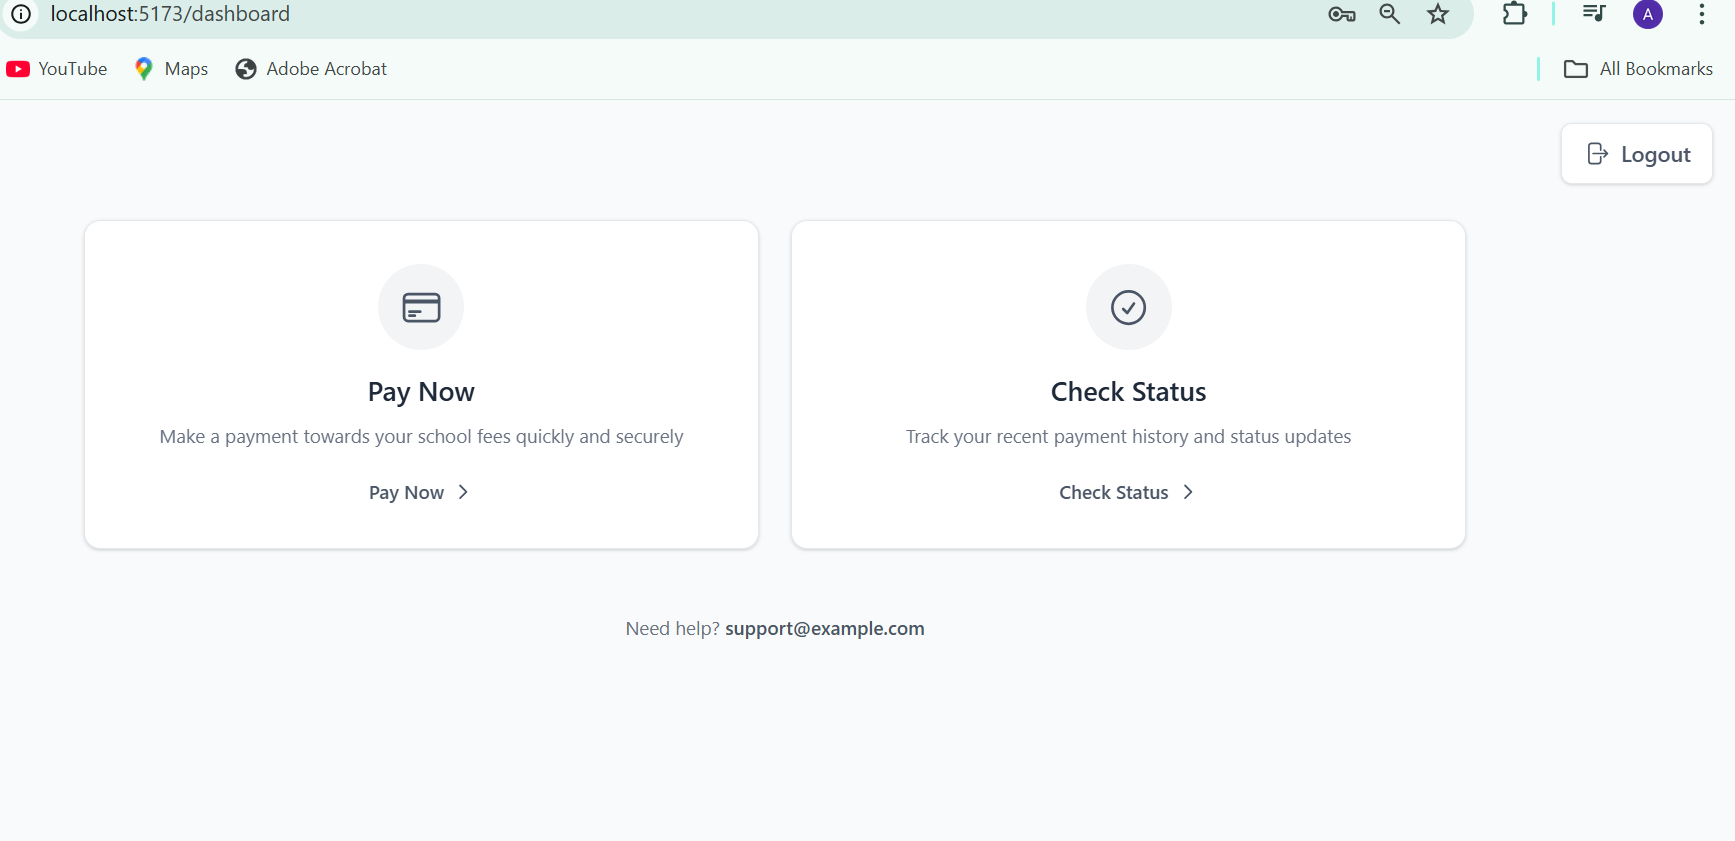
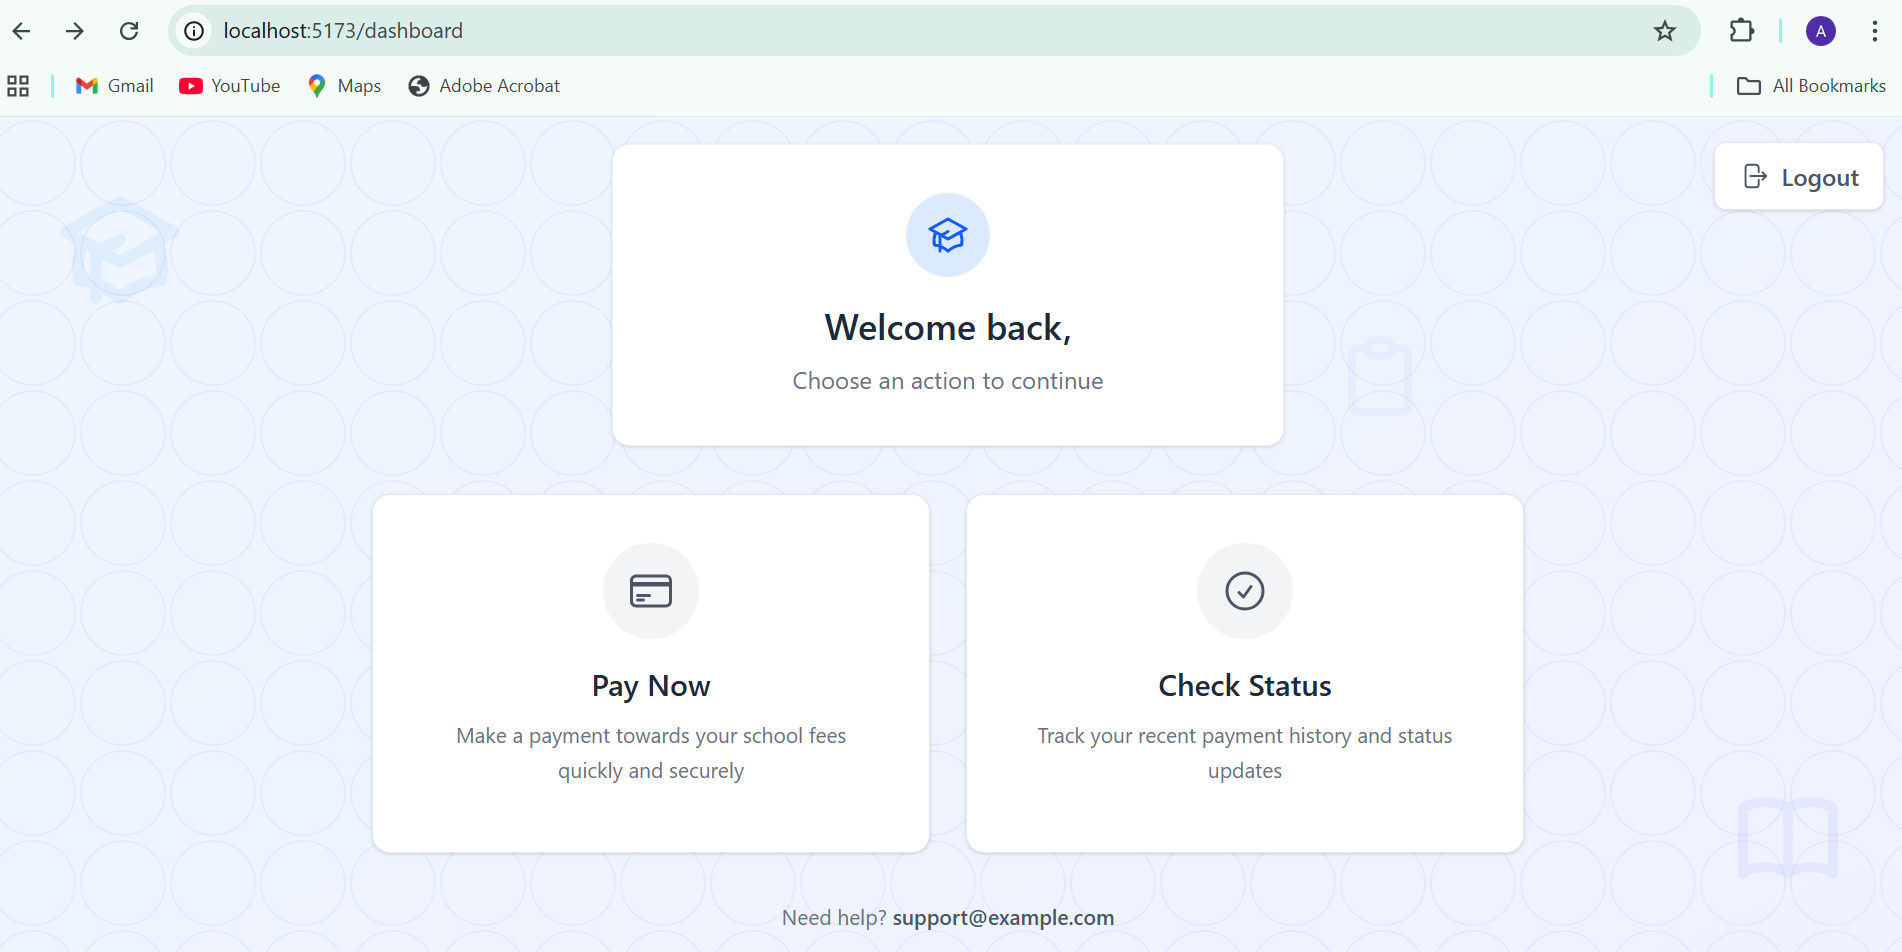
Completed

diff --git a/frontend/src/Pages/StudentDashboard.jsx b/frontend/src/Pages/StudentDashboard.jsx
@@ -56,7 +56,37 @@ const Dashboard = () => {
   }, [navigate]);
 
   return (
-    <div className="h-screen w-screen flex flex-col bg-gray-50 overflow-hidden">
+    <div className="h-screen w-screen flex flex-col bg-gradient-to-br from-blue-50 to-indigo-50 overflow-hidden relative">
+      {/* Background Elements */}
[1 lines of base64/hex data omitted]
+      
+      {/* Subtle school icons in background */}
+      <div className="absolute top-10 left-10 opacity-10">
+        <svg xmlns="http://www.w3.org/2000/svg" className="h-24 w-24 text-blue-400" fill="none" viewBox="0 0 24 24" stroke="currentColor">
+          <path d="M12 14l9-5-9-5-9 5 9 5z" />
+          <path d="M12 14l6.16-3.422a12.083 12.083 0 01.665 6.479A11.952 11.952 0 0012 20.055a11.952 11.952 0 00-6.824-2.998 12.078 12.078 0 01.665-6.479L12 14z" />
+          <path strokeLinecap="round" strokeLinejoin="round" strokeWidth={2} d="M12 14l9-5-9-5-9 5 9 5zm0 0l6.16-3.422a12.083 12.083 0 01.665 6.479A11.952 11.952 0 0012 20.055a11.952 11.952 0 00-6.824-2.998 12.078 12.078 0 01.665-6.479L12 14zm-4 6v-7.5l4-2.222" />
+        </svg>
+      </div>
+      
+      <div className="absolute bottom-10 right-10 opacity-10">
+        <svg xmlns="http://www.w3.org/2000/svg" className="h-20 w-20 text-indigo-400" fill="none" viewBox="0 0 24 24" stroke="currentColor">
+          <path strokeLinecap="round" strokeLinejoin="round" strokeWidth={2} d="M12 6.253v13m0-13C10.832 5.477 9.246 5 7.5 5S4.168 5.477 3 6.253v13C4.168 18.477 5.754 18 7.5 18s3.332.477 4.5 1.253m0-13C13.168 5.477 14.754 5 16.5 5c1.747 0 3.332.477 4.5 1.253v13C19.832 18.477 18.247 18 16.5 18c-1.746 0-3.332.477-4.5 1.253" />
+        </svg>
+      </div>
+      
+      <div className="absolute top-1/4 right-1/4 opacity-5">
+        <svg xmlns="http://www.w3.org/2000/svg" className="h-16 w-16 text-blue-500" fill="none" viewBox="0 0 24 24" stroke="currentColor">
+          <path strokeLinecap="round" strokeLinejoin="round" strokeWidth={2} d="M9 5H7a2 2 0 00-2 2v12a2 2 0 002 2h10a2 2 0 002-2V7a2 2 0 00-2-2h-2M9 5a2 2 0 002 2h2a2 2 0 002-2M9 5a2 2 0 012-2h2a2 2 0 012 2" />
+        </svg>
+      </div>
+      
+      <div className="absolute bottom-1/3 left-1/4 opacity-5">
+        <svg xmlns="http://www.w3.org/2000/svg" className="h-14 w-14 text-indigo-500" fill="none" viewBox="0 0 24 24" stroke="currentColor">
+          <path strokeLinecap="round" strokeLinejoin="round" strokeWidth={2} d="M12 8v13m0-13V6a2 2 0 112 2h-2zm0 0V5.5A2.5 2.5 0 109.5 8H12zm-7 4h14M5 12a2 2 0 110-4h14a2 2 0 110 4M5 12v7a2 2 0 002 2h10a2 2 0 002-2v-7" />
+        </svg>
+      </div>
+
       {/* Fixed Logout Button */}
       <div className="absolute top-4 right-4 z-50">
         <button
@@ -64,7 +94,7 @@ const Dashboard = () => {
           onClick={() => navigate("/logout")}
           className="flex items-center gap-2 bg-white text-gray-600 px-4 py-2.5 rounded-lg shadow-sm border border-gray-200 
           hover:shadow-md hover:border-gray-300 hover:bg-gray-100 font-medium transition-all duration-200 
-          focus:outline-none focus:ring-2 focus:ring-gray-400 focus:ring-offset-1"
+          focus:outline-none focus:ring-2 focus:ring-gray-400 focus:ring-offset-1 z-50"
           aria-label="Logout"
         >
           <ArrowRightOnRectangleIcon className="h-5 w-5" />
@@ -73,7 +103,7 @@ const Dashboard = () => {
       </div>
 
       {/* Center Content */}
-      <div className="flex-1 flex flex-col items-center justify-center px-4 md:px-6">
+      <div className="flex-1 flex flex-col items-center justify-center px-4 md:px-6 z-10">
         {loading ? (
           <div className="flex flex-col items-center justify-center bg-white rounded-xl shadow p-8 border border-gray-100 w-full max-w-md">
             <Spinner />
@@ -107,6 +137,15 @@ const Dashboard = () => {
         ) : (
           user && (
             <div className="bg-white rounded-xl shadow p-6 md:p-8 border border-gray-100 text-center w-full max-w-md mb-8">
+              <div className="flex justify-center mb-4">
+                <div className="bg-blue-100 p-3 rounded-full">
+                  <svg xmlns="http://www.w3.org/2000/svg" className="h-8 w-8 text-blue-600" fill="none" viewBox="0 0 24 24" stroke="currentColor">
+                    <path d="M12 14l9-5-9-5-9 5 9 5z" />
+                    <path d="M12 14l6.16-3.422a12.083 12.083 0 01.665 6.479A11.952 11.952 0 0012 20.055a11.952 11.952 0 00-6.824-2.998 12.078 12.078 0 01.665-6.479L12 14z" />
+                    <path strokeLinecap="round" strokeLinejoin="round" strokeWidth={1.5} d="M12 14l9-5-9-5-9 5 9 5zm0 0l6.16-3.422a12.083 12.083 0 01.665 6.479A11.952 11.952 0 0012 20.055a11.952 11.952 0 00-6.824-2.998 12.078 12.078 0 01.665-6.479L12 14zm-4 6v-7.5l4-2.222" />
+                  </svg>
+                </div>
+              </div>
               <h2 className="text-xl md:text-2xl font-semibold text-gray-800 mb-2">
                 Welcome back,{" "}
                 <span className="text-gray-700">{user.fullname}</span>

diff --git a/frontend/src/Pages/CheckPaymentStatus.jsx.jsx b/frontend/src/Pages/CheckPaymentStatus.jsx.jsx
@@ -63,13 +63,45 @@ const CheckPaymentStatus = () => {
   };
 
   return (
-    <div className="min-h-screen w-full flex items-center justify-center bg-gray-50 py-10 px-4">
-      <div className="w-full max-w-md bg-white rounded-2xl shadow-lg p-10 border border-gray-100">
+    <div className="min-h-screen w-full flex items-center justify-center bg-gradient-to-br from-blue-50 to-indigo-50 py-10 px-4 relative overflow-hidden">
+      {/* Background Elements */}
[1 lines of base64/hex data omitted]
+      
+      {/* Subtle school icons in background */}
+      <div className="absolute top-10 left-10 opacity-10">
+        <svg xmlns="http://www.w3.org/2000/svg" className="h-24 w-24 text-blue-400" fill="none" viewBox="0 0 24 24" stroke="currentColor">
+          <path d="M12 14l9-5-9-5-9 5 9 5z" />
+          <path d="M12 14l6.16-3.422a12.083 12.083 0 01.665 6.479A11.952 11.952 0 0012 20.055a11.952 11.952 0 00-6.824-2.998 12.078 12.078 0 01.665-6.479L12 14z" />
+          <path strokeLinecap="round" strokeLinejoin="round" strokeWidth={2} d="M12 14l9-5-9-5-9 5 9 5zm0 0l6.16-3.422a12.083 12.083 0 01.665 6.479A11.952 11.952 0 0012 20.055a11.952 11.952 0 00-6.824-2.998 12.078 12.078 0 01.665-6.479L12 14zm-4 6v-7.5l4-2.222" />
+        </svg>
+      </div>
+      
+      <div className="absolute bottom-10 right-10 opacity-10">
+        <svg xmlns="http://www.w3.org/2000/svg" className="h-20 w-20 text-indigo-400" fill="none" viewBox="0 0 24 24" stroke="currentColor">
+          <path strokeLinecap="round" strokeLinejoin="round" strokeWidth={2} d="M12 6.253v13m0-13C10.832 5.477 9.246 5 7.5 5S4.168 5.477 3 6.253v13C4.168 18.477 5.754 18 7.5 18s3.332.477 4.5 1.253m0-13C13.168 5.477 14.754 5 16.5 5c1.747 0 3.332.477 4.5 1.253v13C19.832 18.477 18.247 18 16.5 18c-1.746 0-3.332.477-4.5 1.253" />
+        </svg>
+      </div>
+      
+      <div className="absolute top-1/4 right-1/4 opacity-5">
+        <svg xmlns="http://www.w3.org/2000/svg" className="h-16 w-16 text-blue-500" fill="none" viewBox="0 0 24 24" stroke="currentColor">
+          <path strokeLinecap="round" strokeLinejoin="round" strokeWidth={2} d="M9 5H7a2 2 0 00-2 2v12a2 2 0 002 2h10a2 2 0 002-2V7a2 2 0 00-2-2h-2M9 5a2 2 0 002 2h2a2 2 0 002-2M9 5a2 2 0 012-2h2a2 2 0 012 2" />
+        </svg>
+      </div>
+      
+      <div className="absolute bottom-1/3 left-1/4 opacity-5">
+        <svg xmlns="http://www.w3.org/2000/svg" className="h-14 w-14 text-indigo-500" fill="none" viewBox="0 0 24 24" stroke="currentColor">
+          <path strokeLinecap="round" strokeLinejoin="round" strokeWidth={2} d="M12 8v13m0-13V6a2 2 0 112 2h-2zm0 0V5.5A2.5 2.5 0 109.5 8H12zm-7 4h14M5 12a2 2 0 110-4h14a2 2 0 110 4M5 12v7a2 2 0 002 2h10a2 2 0 002-2v-7" />
+        </svg>
+      </div>
+
+      <div className="w-full max-w-md bg-white rounded-2xl shadow-lg p-10 border border-gray-100 z-10">
         <div className="text-center mb-8">
-          <div className="inline-flex items-center justify-center w-16 h-16 bg-gray-100 rounded-full mb-4">
-            <svg xmlns="http://www.w3.org/2000/svg" className="h-8 w-8 text-gray-600" fill="none" viewBox="0 0 24 24" stroke="currentColor">
-              <path strokeLinecap="round" strokeLinejoin="round" strokeWidth={2} d="M9 12l2 2 4-4m5.618-4.016A11.955 11.955 0 0112 2.944a11.955 11.955 0 01-8.618 3.04A12.02 12.02 0 003 9c0 5.591 3.824 10.29 9 11.622 5.176-1.332 9-6.03 9-11.622 0-1.042-.133-2.052-.382-3.016z" />
-            </svg>
+          <div className="flex justify-center mb-4">
+            <div className="bg-blue-100 p-3 rounded-full">
+              <svg xmlns="http://www.w3.org/2000/svg" className="h-8 w-8 text-blue-600" fill="none" viewBox="0 0 24 24" stroke="currentColor">
+                <path strokeLinecap="round" strokeLinejoin="round" strokeWidth={2} d="M9 12l2 2 4-4m5.618-4.016A11.955 11.955 0 0112 2.944a11.955 11.955 0 01-8.618 3.04A12.02 12.02 0 003 9c0 5.591 3.824 10.29 9 11.622 5.176-1.332 9-6.03 9-11.622 0-1.042-.133-2.052-.382-3.016z" />
+              </svg>
+            </div>
           </div>
           <h2 className="text-2xl font-bold text-gray-800">Check Payment Status</h2>
           <p className="text-gray-500 mt-2">Enter your collect request ID to view payment details</p>

diff --git a/frontend/src/Pages/Login.jsx b/frontend/src/Pages/Login.jsx
@@ -28,7 +28,6 @@ const InputField = ({
         onChange={onChange}
         placeholder={placeholder}
         required
-        disabled={false} // can later be controlled during loading
         className="w-full border border-gray-200 px-4 py-3 rounded-lg focus:ring-2 focus:ring-gray-200 focus:border-gray-200 outline-none transition pr-12 disabled:bg-gray-100 disabled:text-gray-400"
       />
       {showToggle && (
@@ -61,20 +60,16 @@ const Login = () => {
   const [showPassword, setShowPassword] = useState(false);
   const [error, setError] = useState("");
 
-  const handleChange = (e) => setFormData({ ...formData, [e.target.name]: e.target.value });
+  const handleChange = (e) =>
+    setFormData({ ...formData, [e.target.name]: e.target.value });
 
   const loginUser = async () => {
     try {
       setLoading(true);
       setError("");
 
-      // 1⃣ Login request (cookie auth)
       await api.post("/users/login", formData);
-
-      // 2⃣ Fetch current user
       await api.get("/users/me");
-
-      // 3⃣ Navigate to dashboard
       navigate("/dashboard", { replace: true });
     } catch (err) {
       console.error(err);
@@ -94,9 +89,34 @@ const Login = () => {
   };
 
   return (
-    <div className="min-h-screen flex items-center justify-center bg-gray-50">
-      <div className="w-full max-w-md bg-white rounded-2xl shadow-lg p-10 border border-gray-100">
-        <h2 className="text-2xl font-bold mb-8 text-center text-gray-800">Student Login</h2>
+    <div className="h-screen flex items-center justify-center bg-gradient-to-br from-blue-50 to-indigo-50 relative overflow-hidden">
+      {/* Background Elements */}
[1 lines of base64/hex data omitted]
+
+      {/* Background Icons (unchanged) */}
+      <div className="absolute top-10 left-10 opacity-10">
+        <svg xmlns="http://www.w3.org/2000/svg" className="h-24 w-24 text-blue-400" fill="none" viewBox="0 0 24 24" stroke="currentColor">
+          <path d="M12 14l9-5-9-5-9 5 9 5z" />
+          <path d="M12 14l6.16-3.422a12.083 12.083 0 01.665 6.479A11.952 11.952 0 0012 20.055a11.952 11.952 0 00-6.824-2.998 12.078 12.078 0 01.665-6.479L12 14z" />
+          <path strokeLinecap="round" strokeLinejoin="round" strokeWidth={2} d="M12 14l9-5-9-5-9 5 9 5zm0 0l6.16-3.422a12.083 12.083 0 01.665 6.479A11.952 11.952 0 0012 20.055a11.952 11.952 0 00-6.824-2.998 12.078 12.078 0 01.665-6.479L12 14zm-4 6v-7.5l4-2.222" />
+        </svg>
+      </div>
+
+      {/* Login Box */}
+      <div className="w-full max-w-md bg-white rounded-2xl shadow-lg p-10 border border-gray-100 z-10">
+        <div className="flex justify-center mb-6">
+          <div className="bg-blue-100 p-3 rounded-full">
+            <svg xmlns="http://www.w3.org/2000/svg" className="h-10 w-10 text-blue-600" fill="none" viewBox="0 0 24 24" stroke="currentColor">
+              <path d="M12 14l9-5-9-5-9 5 9 5z" />
+              <path d="M12 14l6.16-3.422a12.083 12.083 0 01.665 6.479A11.952 11.952 0 0012 20.055a11.952 11.952 0 00-6.824-2.998 12.078 12.078 0 01.665-6.479L12 14z" />
+              <path strokeLinecap="round" strokeLinejoin="round" strokeWidth={1.5} d="M12 14l9-5-9-5-9 5 9 5zm0 0l6.16-3.422a12.083 12.083 0 01.665 6.479A11.952 11.952 0 0012 20.055a11.952 11.952 0 00-6.824-2.998 12.078 12.078 0 01.665-6.479L12 14zm-4 6v-7.5l4-2.222" />
+            </svg>
+          </div>
+        </div>
+
+        <h2 className="text-2xl font-bold mb-8 text-center text-gray-800">
+          Student Login
+        </h2>
 
         <form onSubmit={handleSubmit} className="space-y-6">
           <InputField

diff --git a/frontend/src/Pages/LoginAdmin.jsx b/frontend/src/Pages/LoginAdmin.jsx
@@ -147,8 +147,46 @@ const AdminLogin = () => {
   };
 
   return (
-    <div className="min-h-screen w-full flex items-center justify-center bg-gray-50">
-      <div className="w-full max-w-md bg-white rounded-2xl shadow-lg p-10 border border-gray-100">
+    <div className="min-h-screen w-full flex items-center justify-center bg-gradient-to-br from-blue-50 to-indigo-50 relative overflow-hidden">
+      {/* Background Elements */}
[1 lines of base64/hex data omitted]
+      
+      {/* Subtle school icons in background */}
+      <div className="absolute top-10 left-10 opacity-10">
+        <svg xmlns="http://www.w3.org/2000/svg" className="h-24 w-24 text-blue-400" fill="none" viewBox="0 0 24 24" stroke="currentColor">
+          <path d="M12 14l9-5-9-5-9 5 9 5z" />
+          <path d="M12 14l6.16-3.422a12.083 12.083 0 01.665 6.479A11.952 11.952 0 0012 20.055a11.952 11.952 0 00-6.824-2.998 12.078 12.078 0 01.665-6.479L12 14z" />
+          <path strokeLinecap="round" strokeLinejoin="round" strokeWidth={2} d="M12 14l9-5-9-5-9 5 9 5zm0 0l6.16-3.422a12.083 12.083 0 01.665 6.479A11.952 11.952 0 0012 20.055a11.952 11.952 0 00-6.824-2.998 12.078 12.078 0 01.665-6.479L12 14zm-4 6v-7.5l4-2.222" />
+        </svg>
+      </div>
+      
+      <div className="absolute bottom-10 right-10 opacity-10">
+        <svg xmlns="http://www.w3.org/2000/svg" className="h-20 w-20 text-indigo-400" fill="none" viewBox="0 0 24 24" stroke="currentColor">
+          <path strokeLinecap="round" strokeLinejoin="round" strokeWidth={2} d="M12 6.253v13m0-13C10.832 5.477 9.246 5 7.5 5S4.168 5.477 3 6.253v13C4.168 18.477 5.754 18 7.5 18s3.332.477 4.5 1.253m0-13C13.168 5.477 14.754 5 16.5 5c1.747 0 3.332.477 4.5 1.253v13C19.832 18.477 18.247 18 16.5 18c-1.746 0-3.332.477-4.5 1.253" />
+        </svg>
+      </div>
+      
+      <div className="absolute top-1/4 right-1/4 opacity-5">
+        <svg xmlns="http://www.w3.org/2000/svg" className="h-16 w-16 text-blue-500" fill="none" viewBox="0 0 24 24" stroke="currentColor">
+          <path strokeLinecap="round" strokeLinejoin="round" strokeWidth={2} d="M9 5H7a2 2 0 00-2 2v12a2 2 0 002 2h10a2 2 0 002-2V7a2 2 0 00-2-2h-2M9 5a2 2 0 002 2h2a2 2 0 002-2M9 5a2 2 0 012-2h2a2 2 0 012 2" />
+        </svg>
+      </div>
+      
+      <div className="absolute bottom-1/3 left-1/4 opacity-5">
+        <svg xmlns="http://www.w3.org/2000/svg" className="h-14 w-14 text-indigo-500" fill="none" viewBox="0 0 24 24" stroke="currentColor">
+          <path strokeLinecap="round" strokeLinejoin="round" strokeWidth={2} d="M12 8v13m0-13V6a2 2 0 112 2h-2zm0 0V5.5A2.5 2.5 0 109.5 8H12zm-7 4h14M5 12a2 2 0 110-4h14a2 2 0 110 4M5 12v7a2 2 0 002 2h10a2 2 0 002-2v-7" />
+        </svg>
+      </div>
+
+      <div className="w-full max-w-md bg-white rounded-2xl shadow-lg p-10 border border-gray-100 z-10">
+        <div className="flex justify-center mb-6">
+          <div className="bg-blue-100 p-3 rounded-full">
+            <svg xmlns="http://www.w3.org/2000/svg" className="h-10 w-10 text-blue-600" fill="none" viewBox="0 0 24 24" stroke="currentColor">
+              <path strokeLinecap="round" strokeLinejoin="round" strokeWidth={2} d="M9 5H7a2 2 0 00-2 2v12a2 2 0 002 2h10a2 2 0 002-2V7a2 2 0 00-2-2h-2M9 5a2 2 0 002 2h2a2 2 0 002-2M9 5a2 2 0 012-2h2a2 2 0 012 2m-3 7h3m-3 4h3m-6-4h.01M9 16h.01" />
+            </svg>
+          </div>
+        </div>
+        
         <h2 className="text-2xl font-bold mb-2 text-center text-gray-800">
           Admin Login
         </h2>

diff --git a/frontend/src/Pages/CreateAmount.jsx b/frontend/src/Pages/CreateAmount.jsx
@@ -94,8 +94,19 @@ const PaymentForm = () => {
   };
 
   return (
-    <div className="w-screen h-screen bg-gray-50 flex items-center justify-center overflow-hidden">
-      <div className="relative w-full max-w-md bg-white rounded-2xl shadow-lg p-10 border border-gray-100">
+    <div className="h-screen flex items-center justify-center bg-gradient-to-br from-blue-50 to-indigo-50 relative overflow-hidden">
+      {/* Background SVG */}
[1 lines of base64/hex data omitted]
+
+      <div className="absolute top-10 left-10 opacity-10">
+        <svg xmlns="http://www.w3.org/2000/svg" className="h-24 w-24 text-blue-400" fill="none" viewBox="0 0 24 24" stroke="currentColor">
+          <path d="M12 14l9-5-9-5-9 5 9 5z" />
+          <path d="M12 14l6.16-3.422a12.083 12.083 0 01.665 6.479A11.952 11.952 0 0012 20.055a11.952 11.952 0 00-6.824-2.998 12.078 12.078 0 01.665-6.479L12 14z" />
+          <path strokeLinecap="round" strokeLinejoin="round" strokeWidth={2} d="M12 14l9-5-9-5-9 5 9 5zm0 0l6.16-3.422a12.083 12.083 0 01.665 6.479A11.952 11.952 0 0012 20.055a11.952 11.952 0 00-6.824-2.998 12.078 12.078 0 01.665-6.479L12 14zm-4 6v-7.5l4-2.222" />
+        </svg>
+      </div>
+
+      <div className="relative w-full max-w-md bg-white rounded-2xl shadow-lg p-10 border border-gray-100 z-10">
         <h2 className="text-2xl font-bold mb-8 text-center text-gray-800">Create Payment</h2>
 
         <form onSubmit={handleSubmit} className="space-y-5">
@@ -133,6 +144,7 @@ const PaymentForm = () => {
           </div>
         )}
 
+        {/* Payment Modal */}
         {showModal && paymentData && (
           <div className="fixed inset-0 flex items-center justify-center z-50">
             <div className="absolute inset-0 bg-black bg-opacity-50 transition-opacity duration-300" onClick={() => !paymentStatus && setShowModal(false)}></div>

diff --git a/frontend/src/Pages/Register.jsx b/frontend/src/Pages/Register.jsx
@@ -24,8 +24,6 @@ const Register = () => {
     setLoading(true);
     try {
       await api.post("/users/register", formData);
-
-      // Redirect silently to login
       navigate("/login");
     } catch (err) {
       toast.error(err.response?.data?.message || "Registration failed. Please try again.");
@@ -35,8 +33,20 @@ const Register = () => {
   };
 
   return (
-    <div className="min-h-screen bg-gray-50 flex items-center justify-center px-4">
-      <div className="w-full max-w-md bg-white rounded-2xl shadow-lg p-10 border border-gray-100">
+    <div className="h-screen flex items-center justify-center bg-gradient-to-br from-blue-50 to-indigo-50 relative overflow-hidden">
+      {/* Background Elements */}
[1 lines of base64/hex data omitted]
+
+      <div className="absolute top-10 left-10 opacity-10">
+        <svg xmlns="http://www.w3.org/2000/svg" className="h-24 w-24 text-blue-400" fill="none" viewBox="0 0 24 24" stroke="currentColor">
+          <path d="M12 14l9-5-9-5-9 5 9 5z" />
+          <path d="M12 14l6.16-3.422a12.083 12.083 0 01.665 6.479A11.952 11.952 0 0012 20.055a11.952 11.952 0 00-6.824-2.998 12.078 12.078 0 01.665-6.479L12 14z" />
+          <path strokeLinecap="round" strokeLinejoin="round" strokeWidth={2} d="M12 14l9-5-9-5-9 5 9 5zm0 0l6.16-3.422a12.083 12.083 0 01.665 6.479A11.952 11.952 0 0012 20.055a11.952 11.952 0 00-6.824-2.998 12.078 12.078 0 01.665-6.479L12 14zm-4 6v-7.5l4-2.222" />
+        </svg>
+      </div>
+
+      {/* Register Box */}
+      <div className="w-full max-w-md bg-white rounded-2xl shadow-lg p-10 border border-gray-100 z-10">
         <h2 className="text-2xl font-bold mb-8 text-center text-gray-800">
           Student Register
         </h2>

diff --git a/backend/models/webhook-log-model.js b/backend/models/webhook-log-model.js
@@ -1,7 +1,11 @@
 const mongoose = require("mongoose");
 
 const webhookLogSchema = new mongoose.Schema({
-  raw_payload: Object,
+  raw_payload: { type: Object, required: true },
+  order_id: { type: String },
+  status: { type: String, default: "RECEIVED" },
+  processed_at: { type: Date },
+  sign_method: { type: String },
   createdAt: { type: Date, default: Date.now },
 });
 

diff --git a/README.md b/README.md
@@ -1,4 +1,4 @@
-![fee](./backend/images/fee.png)
+![fee](./frontend/public/images/fee.png)
 
 # SchoolPay - MERN Stack School Payment System
 
@@ -140,25 +140,25 @@ Backend will run at http://localhost:000
 
 ## Usage
 Students can register and log in.
-![login](./backend/images/login.png)
-![register](./backend/images/register.png)
+![login](./frontend/public/images/login.png)
+![register](./frontend/public/images/register.png)
 
 
 
 Studemts Dashboard options allow:
-![StudentDashboard](./backend/images/StudentDashboard.png)
+![StudentDashboard](./frontend/public/images/StudentDashboard.png)
 
 
 
 Create payment → redirected to Edviron payment link.
-![CreatePayment](./backend/images/CreatePayment.png)
-![paynow](./backend/images/paynow.png)
-![proceed](./backend/images/proceed.png)
-![pay](./backend/images/pay.png)
+![CreatePayment](./frontend/public/images/CreatePayment.png)
+![paynow](./frontend/public/images/paynow.png)
+![proceed](./frontend/public/images/proceed.png)
+![pay](./frontend/public/images/pay.png)
 
 Check payment status → view payment history.
-![CheckStatus](./backend/images/CheckStatus.png)
-![status](./backend/images/status.png)
+![CheckStatus](./frontend/public/images/CheckStatus.png)
+![status](./frontend/public/images/status.png)
 
 ## Admins
 1. Create admin via backend script:
@@ -168,15 +168,15 @@ node scripts/createAdmin.js
 ```
 
 2. Admin login route: /admins/auth/login
-![adminlogin](./backend/images/adminlogin.png)
+![adminlogin](./frontend/public/images/adminlogin.png)
 
 3. Admin dashboard: http://localhost:5173/admin/dashboard
 
 - White Mode
-![whitemode](./backend/images/whitemode.png)
+![whitemode](./frontend/public/images/whitemode.png)
 
 - Black Mode
-![blackmode](./backend/images/blackmode.png)
+![blackmode](./frontend/public/images/blackmode.png)
 
 
 
